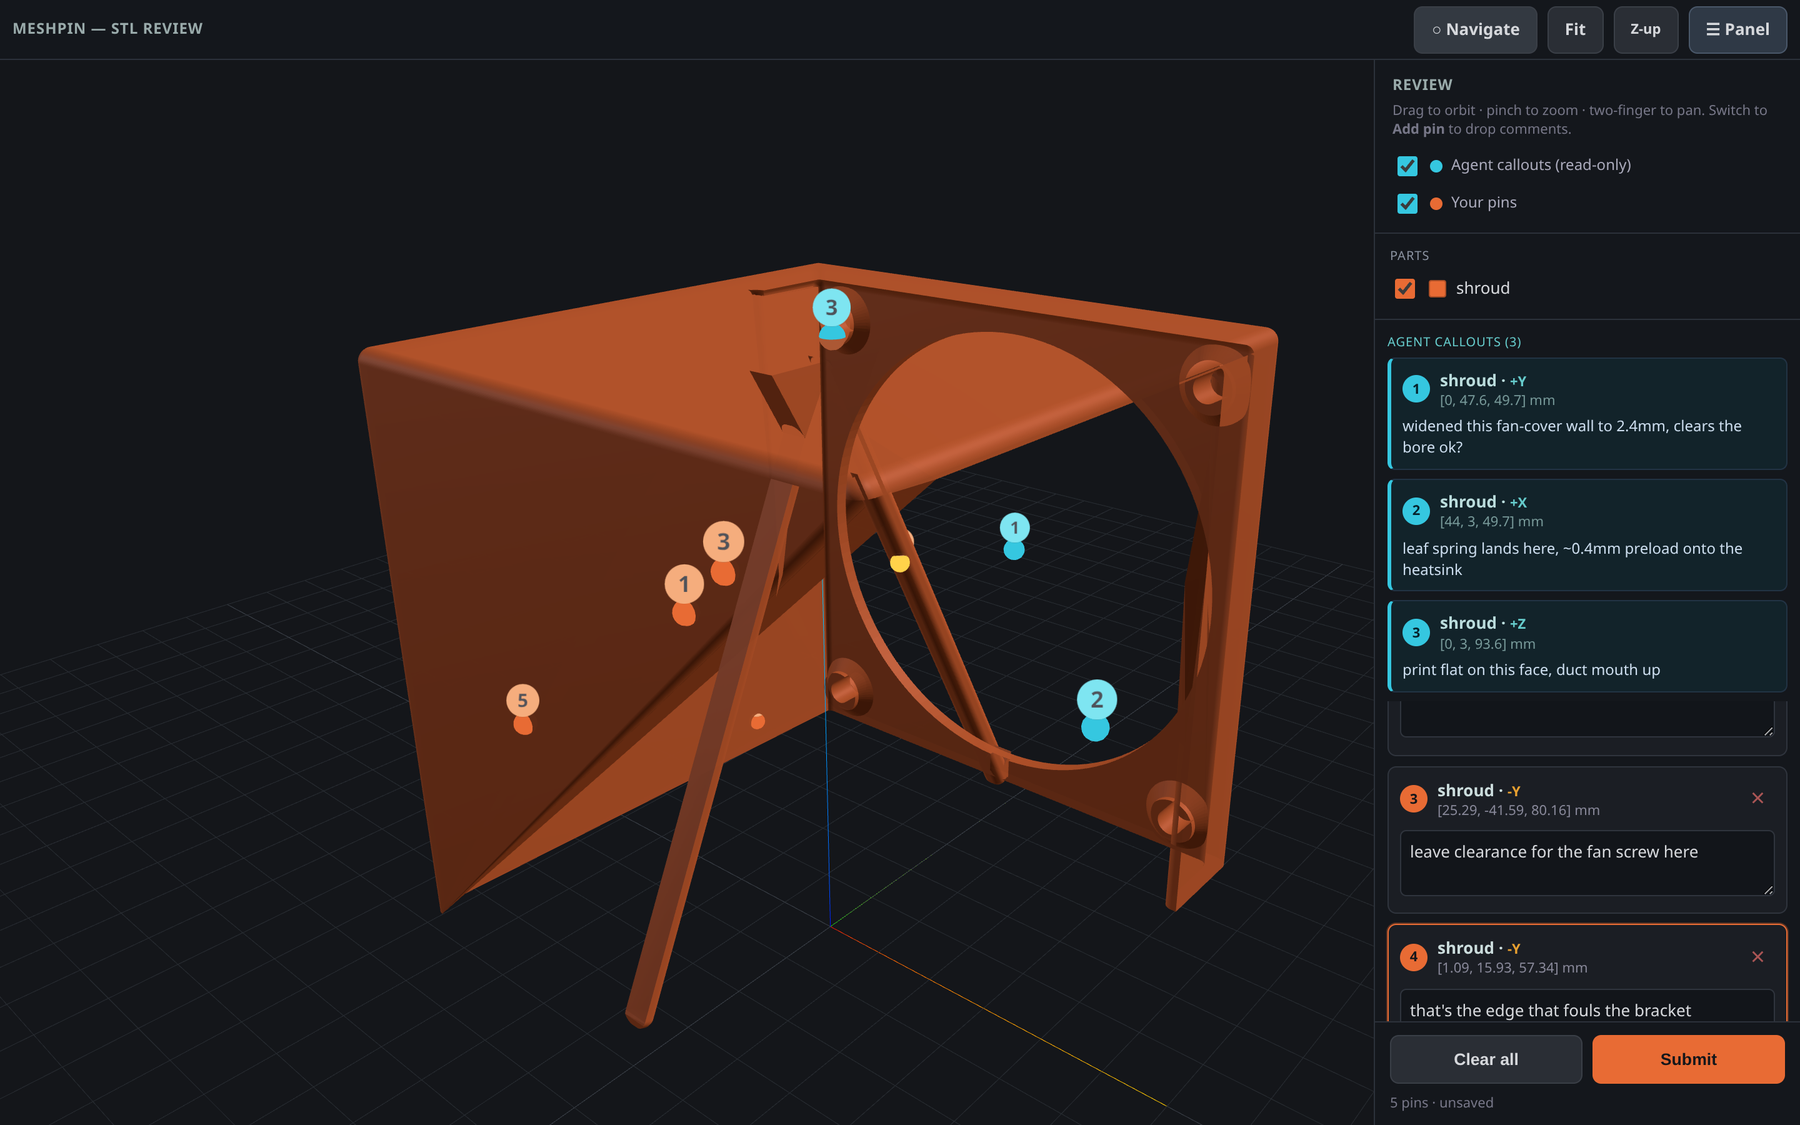
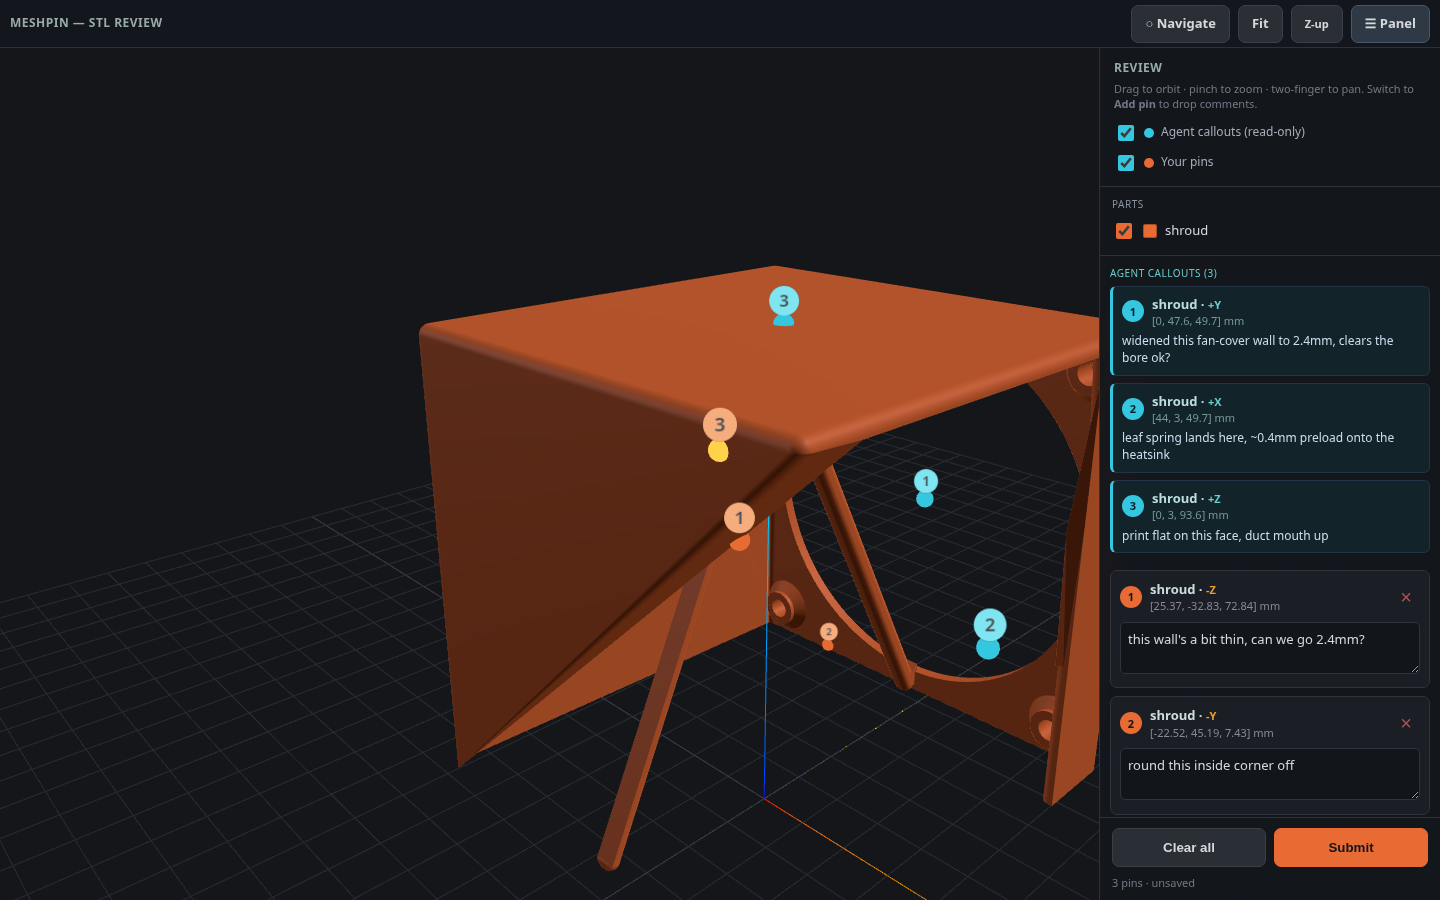
Render models opaque so concave parts don't mis-sort
Models loaded at 0.95 opacity, so the material was transparent with depthWrite
off, which mis-sorted internal faces on concave parts and made them look
chopped. Render opaque instead. Refreshed the README screenshot.

diff --git a/src/annealage_mesh/static/viewer.html b/src/annealage_mesh/static/viewer.html
@@ -237,7 +237,7 @@ async function loadManifest() {
       name: m.name,
       file: m.file,
       color: PALETTE[i % PALETTE.length],
-      opacity: 0.95,
+      opacity: 1.0,         // opaque: transparent + depthWrite-off mis-sorts internal faces on concave parts
       show: i === 0,        // first model shown, rest toggled off
     }));
     buildPartsUI();
